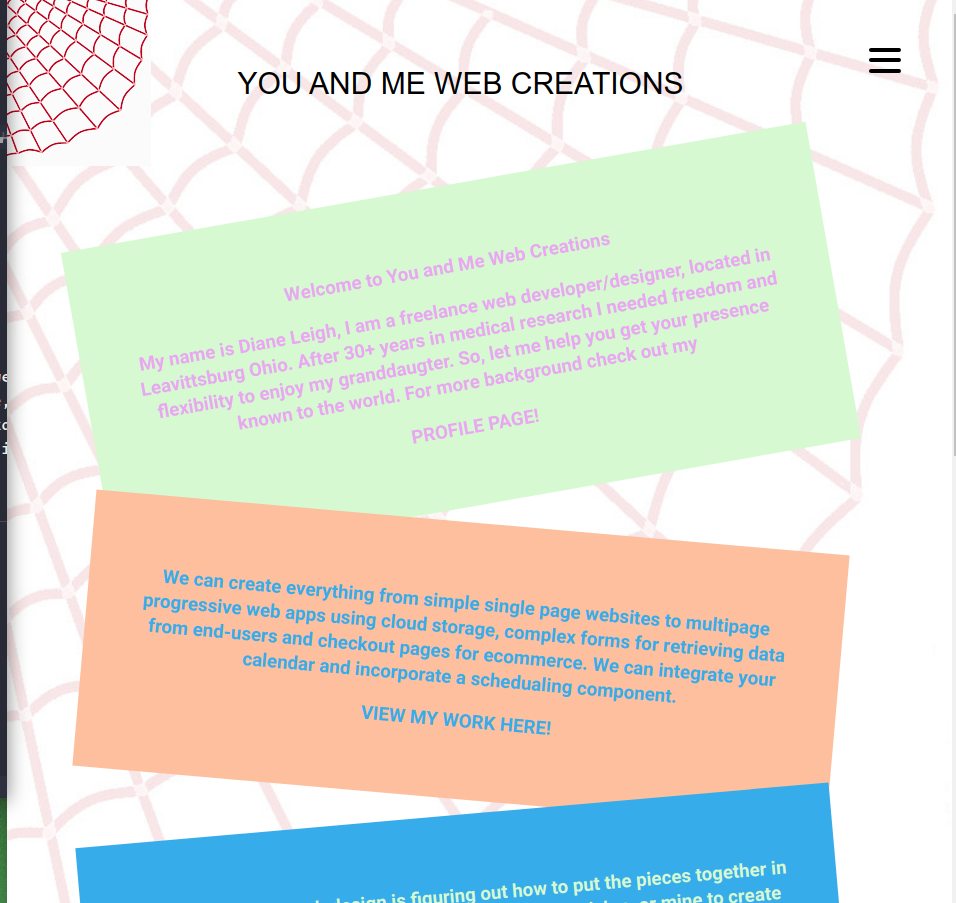
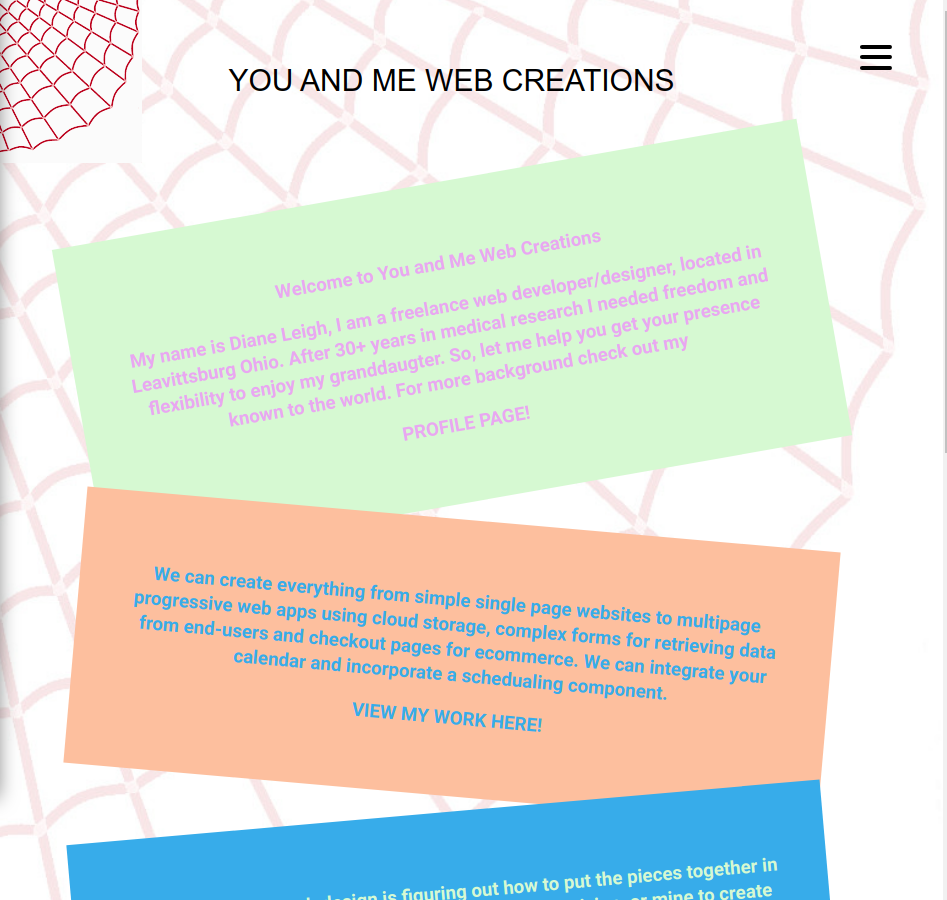
adjusted settings for multiple screen sizes

diff --git a/src/components/coloreddiv/coloreddiv.styles.jsx b/src/components/coloreddiv/coloreddiv.styles.jsx
@@ -1,18 +1,22 @@
 import styled from "styled-components";
 
-export const ColoredDivContainer = styled.div`
+export const ColoredDivContainer = styled.div `
   width: 80%;
   display: flex;
-  flex-direction: row;
+  flex-direction: column;
   align-items: center;
   background: ${props => props.bg};
   padding: 3rem;
   margin: 1rem auto 0 auto;
   color: ${props => props.fc};
   transform: ${props => props.rotation};
+
+  @media screen and (min-width: 1500px) {
+    margin: 1rem auto 2rem auto;
+  }
 `;
 
-export const DivText = styled.div`
+export const DivText = styled.div `
   width: 100%;
   color: ${props => props.fc};
 
@@ -22,8 +26,8 @@ export const DivText = styled.div`
   }
 `;
 
-export const WebsiteContainer = styled.div`
-  width: 60%;
+export const WebsiteContainer = styled.div `
+  width: 100%;
   a {
     color: ${props => props.fc};
     text-transform: uppercase;
@@ -31,6 +35,24 @@ export const WebsiteContainer = styled.div`
 
   img {
     width: 80%
+  }
+
+  @media screen and (min-width: 450px) {
+    display: flex;
+    flex-direction: row;
+
+    width: 60%;
+    a {
+      color: ${
+        props => props.fc
+      };
+      text-transform: uppercase;
+    }
+
+    img {
+      width: 80%
+    }
+
   }
 
 `

diff --git a/src/pages/portfoliopage/portfoliopage.jsx b/src/pages/portfoliopage/portfoliopage.jsx
@@ -2,11 +2,15 @@ import React from "react";
 
 import ColoredDiv from "../../components/coloreddiv/coloreddiv";
 
+import {
+  PortfolioPageContainer
+} from "./portfoliopage.styles";
+
 const PortfolioPage = () => {
   const images = require.context("../../components/assets", true);
 
   return (
-    <div>
+    <PortfolioPageContainer>
       <ColoredDiv
         bg={({ theme }) => theme.palletGreen}
         fc={({ theme }) => theme.palletPurple}
@@ -81,7 +85,7 @@ const PortfolioPage = () => {
         ></ColoredDiv>
       <ColoredDiv
         bg={({ theme }) => theme.palletPurple}
-        fc={({ theme }) => theme.palletOrangeFont}
+        fc={({ theme }) => theme.palletWhiteFont}
         website={
           <a
             href="https://youandmewebcreations.herokuapp.com/"
@@ -99,9 +103,9 @@ const PortfolioPage = () => {
             <h3>This Website was built with React / Redux. Firebase is used for administration authorized sign-in and sending as well as storage of email messages.</h3>
           </div>
         }
-        rotation="rotate(10deg)"
+        rotation="rotate(7deg)"
       ></ColoredDiv>
-    </div>
+    </PortfolioPageContainer>
   );
 };
 

diff --git a/src/components/contact/contact.scss b/src/components/contact/contact.scss
@@ -1,16 +1,11 @@
 h1 {
-  display: table;
-  margin: 40px auto;
   color: #fff;
-  font: 30px Helvetica;
-  letter-spacing: 2px;
-  text-transform: uppercase;
-  letter-spacing: 10px;
 }
 
 form {
-  display: table;
-  margin: 40px auto;
+  display: flex;
+  flex-direction: column;
+  margin: 10px 20px;
 
   input,
   textarea {
@@ -19,7 +14,7 @@ form {
     display: block;
     border: none;
     padding: 20px;
-    width: 300px;
+    width: 95%;
     margin-bottom: 20px;
     font-size: 18px;
     outline: none;
@@ -48,12 +43,13 @@ form {
 
   button {
     transition: all 0.2s ease-in-out;
+    box-sizing: border-box;
     font: 18px Helvetica, Arial, sans-serif;
     border: none;
     background: #1792e8;
     color: #fff;
     padding: 20px;
-    width: 100%;
+    width: 95%;
     text-transform: uppercase;
     letter-spacing: 5px;
 

diff --git a/src/components/header/header.styled.jsx b/src/components/header/header.styled.jsx
@@ -9,6 +9,7 @@ export const HeaderContainer = styled.div`
   justify-content: space-between;
   margin-bottom: 20px;
   border: 2px;
+  font-size: 2rem;
 
   @media screen and (min-width: 450px) {
     height: 150px;
@@ -27,7 +28,8 @@ export const LogoContainer = styled(Link)`
 `;
 
 export const TitleContainer = styled.h1`
-max-width: 200;
+/* max-width: 200; */
+  font-size: 1.5rem;
   color: black;
   position: absolute;
   top: 5%;
@@ -35,7 +37,8 @@ max-width: 200;
   letter-spacing: normal;
   transform: translate(-50%, -50%);
 
-   @media screen and(min-width: 450 px) {
-     left: 50%;
-   }
+  @media screen and (min-width: 450px) {
+    font-size: 2rem;
+    left: 50%;
+  }
 `;

diff --git a/src/pages/contactpage/contactpage.jsx b/src/pages/contactpage/contactpage.jsx
@@ -3,9 +3,12 @@ import React from "react";
 import ColoredDiv from "../../components/coloreddiv/coloreddiv";
 import Contact from "../../components/contact/contact";
 
+import { ContactPageContainer } from "./contactpage.styles";
+
+
 const ContactPage = () => {
   return (
-    <div>
+    <ContactPageContainer>
       <ColoredDiv
         id={'contact'}
         bg={({ theme }) => theme.palletPurple}
@@ -16,9 +19,9 @@ const ContactPage = () => {
             <Contact />
           </div>
         }
-        rotation="rotate(10deg)"
+        rotation="rotate(5deg)"
       ></ColoredDiv>
-    </div>
+    </ContactPageContainer>
   );
 };
 

diff --git a/src/pages/homepage/homepage.jsx b/src/pages/homepage/homepage.jsx
@@ -69,7 +69,7 @@ const HomePage = () => {
               <Contact />
             </div>
           }
-          rotation="rotate(10deg)"
+          rotation="rotate(5deg)"
         ></ColoredDiv>
       </Profiler>
     </HomePageContainer>

diff --git a/src/pages/portfoliopage/portfoliopage.styles.jsx b/src/pages/portfoliopage/portfoliopage.styles.jsx
@@ -1,6 +1,6 @@
 import styled from "styled-components";
 
-export const ContactPageContainer = styled.div `
+export const PortfolioPageContainer = styled.div `
   display: flex;
   flex-direction: column;
   align-items: center;

diff --git a/src/theme.js b/src/theme.js
@@ -6,5 +6,6 @@ export const theme = {
   palletGreen: "#d6f9d1",
   palletBlue: "#35acec",
   palletPurple: "#e9a8f3",
-  palletOrangeFont: "#f38649"
+  palletOrangeFont: "#f38649",
+  palletWhiteFont: "#ffffff"
 };
